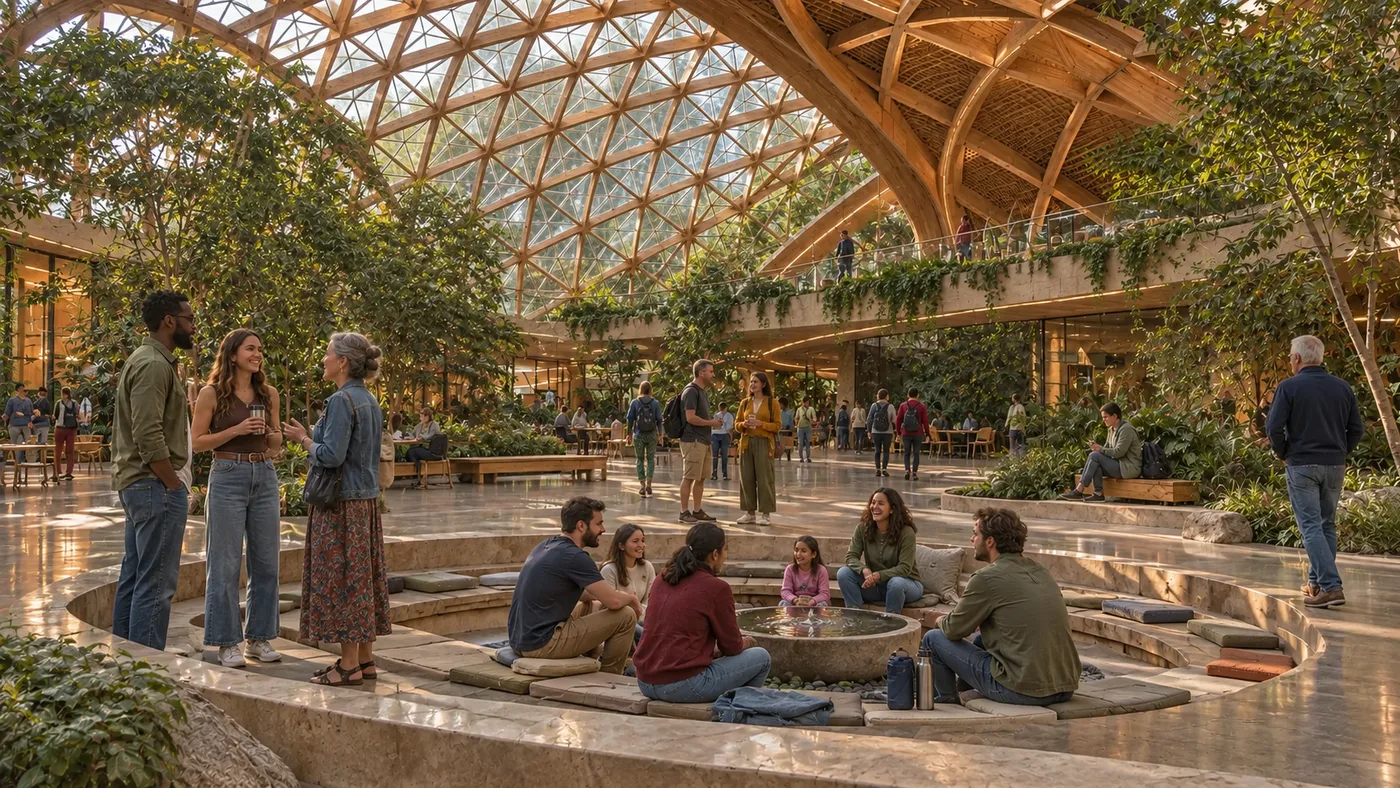
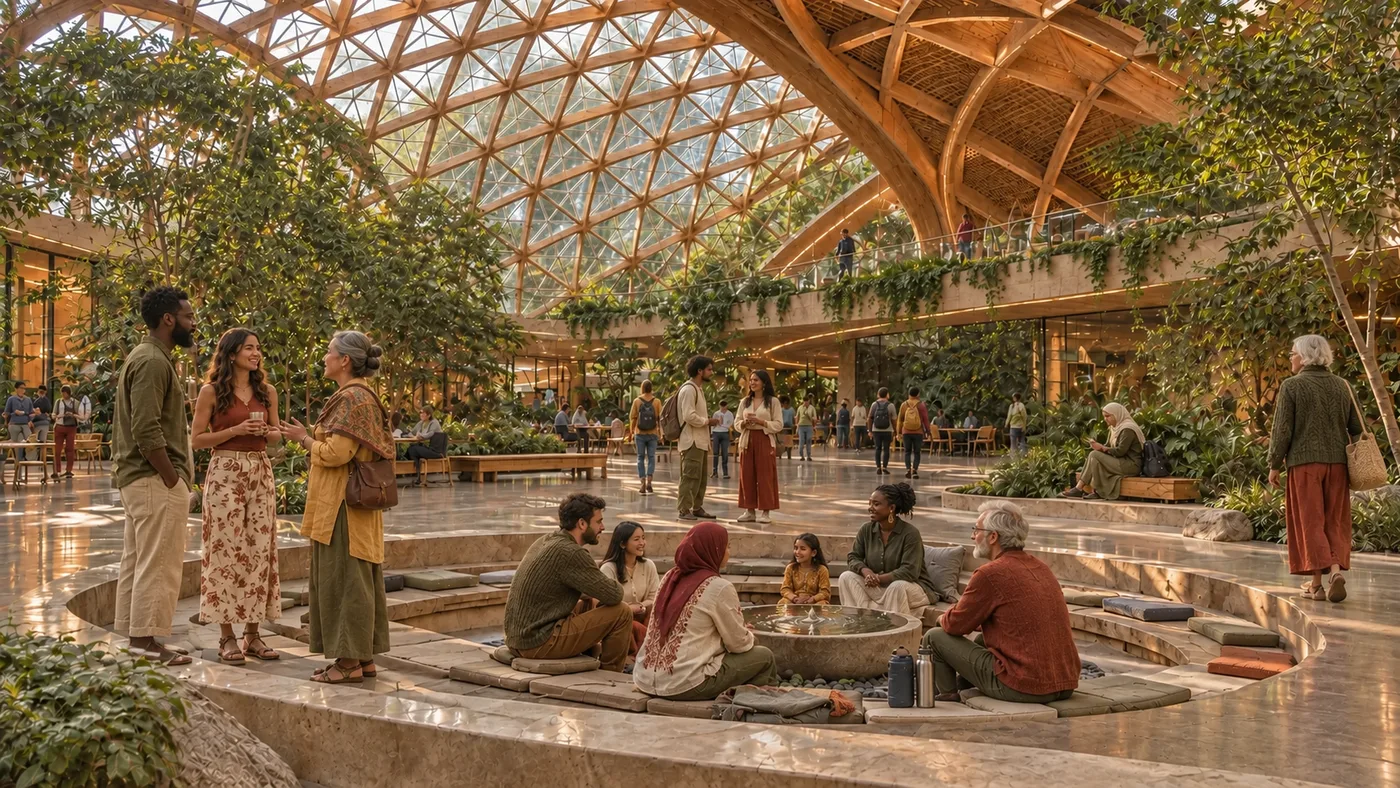
Show each image once, bring docs up to date, diverse natural clothing
- Docs: every photo and diagram now lives on one page; other pages link to it
  (visionary art in Architecture, diagrams on the pages that explain them)
- Layout & Diagrams becomes an index table of where each diagram lives
- At a Glance: new Nature section; Start Here, Index, Glossary (BNG, DarkSky,
  bird-safe glass, dry-stone, embodied carbon), Development Stages and
  Bibliography updated with Light on the Land, stone and materials
- Energy wording reconciled: no fossil fuel, renewable-fuel backup only in outages
- Spire: realistic daytime photo; no light shows or beacon, shielded night light
- Site pages: fewer repeated photos; new investors-site, about-land, journey-path
- 32 photos re-dressed: diverse people in varied natural clothing, little denim
- Visual Language: clothing and diversity rules

diff --git a/website/src/pages/investors.tsx b/website/src/pages/investors.tsx
@@ -9,7 +9,7 @@ export default function Investors(): JSX.Element {
       eyebrow="For investors"
       heading={<>Patient capital. <em>Measurable returns.</em></>}
       sub="Light City is structured for serious diligence: phased capital expenditure, documented assumptions, governance milestones and a clear line between proven infrastructure and exploratory research."
-      image="spire">
+      image="investors-site">
       <Section eyebrow="Phase 1 at a glance" title="The numbers behind the first 200 residents." lead="Mid-case figures from the financial model. Full assumptions and ranges are in the development stages documentation.">
         <div className="pg-facts">
           <div className="pg-fact"><b>$45M</b><span>Capital expenditure, Phase 1</span></div>
@@ -24,7 +24,7 @@ export default function Investors(): JSX.Element {
         <Cards items={[
           {title: 'Proven infrastructure', img: 'tech-bipv-solar-facade', text: 'Microgrid, mass timber and geodesic structures already stand elsewhere. 2–5 MWp of solar in Phase 1 is carried as engineering, not research.'},
           {title: 'Phased commitments', img: 'tech-clt-construction', text: 'Capital is staged with each development stage, so every tranche is tied to a documented milestone and decision point.'},
-          {title: 'Separated research track', img: 'research', text: 'Consciousness and experiential programs run on their own track with honest readiness levels, so they never carry the core business case.'},
+          {title: 'Separated research track', img: 'journey-awakening', text: 'Consciousness and experiential programs run on their own track with honest readiness levels, so they never carry the core business case.'},
         ]} />
       </Section>
 

diff --git a/website/src/pages/researchers.tsx b/website/src/pages/researchers.tsx
@@ -9,12 +9,12 @@ export default function Researchers(): JSX.Element {
       eyebrow="For researchers"
       heading={<>A living laboratory, <em>held to open-science standards.</em></>}
       sub="Engineering deliverables and consciousness hypotheses stay on separate tracks, each with an honest readiness level."
-      image="research">
+      image="tech-aquaponics-system">
       <Section eyebrow="Research programs" title="Four programs, one standard of evidence.">
         <Cards items={[
-          {kicker: 'TRL 1–3', title: 'Consciousness field studies', img: 'vision-2', text: 'HRV, EEG and heart-brain coherence across groups, with pre-registered protocols.'},
-          {kicker: 'TRL 2–4', title: 'Acoustic resonance', img: 'spire', text: 'RT60, SPL and listener studies inside the spire and domes.'},
-          {kicker: 'TRL 5–7', title: 'Biophilic health', img: 'dome-interior', text: 'Stress markers, sleep quality and cognitive performance in biophilic spaces.'},
+          {kicker: 'TRL 1–3', title: 'Consciousness field studies', img: 'research', text: 'HRV, EEG and heart-brain coherence across groups, with pre-registered protocols.'},
+          {kicker: 'TRL 2–4', title: 'Acoustic resonance', img: 'city-temple', text: 'RT60, SPL and listener studies inside the spire and domes.'},
+          {kicker: 'TRL 5–7', title: 'Biophilic health', img: 'home-studio', text: 'Stress markers, sleep quality and cognitive performance in biophilic spaces.'},
           {kicker: 'TRL 7–9', title: 'Regenerative agriculture', img: 'tech-agroforestry', text: 'Soil carbon, biomass and lifecycle analysis across food systems.'},
         ]} />
       </Section>

diff --git a/website/src/pages/about.tsx b/website/src/pages/about.tsx
@@ -14,9 +14,9 @@ export default function About(): JSX.Element {
       image="vision-1">
       <Section eyebrow="Core principles" title="Three ideas hold the whole project together." lead="Everything we design, finance and build is checked against these principles first.">
         <Cards items={[
-          {kicker: 'I', title: 'Spirit before structure', img: 'spire', text: 'Light City begins as an etheric template, a higher-dimensional pattern. Physical implementation follows spiritual alignment.'},
-          {kicker: 'II', title: "Gaia's memory", img: 'tech-agroforestry', text: 'Earth holds the memory of what Light City can be. We co-create with planetary consciousness rather than impose on it.'},
-          {kicker: 'III', title: 'Collective co-creation', img: 'dome-interior', text: "Light City is not a single person's vision but an emergent pattern drawing from many consciousness streams."},
+          {kicker: 'I', title: 'Spirit before structure', img: 'vision-1', text: 'Light City begins as an etheric template, a higher-dimensional pattern. Physical implementation follows spiritual alignment.'},
+          {kicker: 'II', title: "Gaia's memory", img: 'about-land', text: 'Earth holds the memory of what Light City can be. We co-create with planetary consciousness rather than impose on it.'},
+          {kicker: 'III', title: 'Collective co-creation', img: 'journey-founding', text: "Light City is not a single person's vision but an emergent pattern drawing from many consciousness streams."},
         ]} />
       </Section>
 

diff --git a/website/src/pages/city.tsx b/website/src/pages/city.tsx
@@ -45,7 +45,7 @@ export default function City(): JSX.Element {
           title="The spire"
           tag="TRL 4–5 at full scale"
           specs={[['Height', '60–120 m (Phase 1)'], ['Structure', 'Steel and CLT lattice'], ['Solar', '200–500 kWp integrated'], ['Role', 'Landmark, observation, energy']]}>
-          <p>The spire is the city's orientation point: visible from every path, lit at night, and carrying building-integrated solar. Its first purpose is practical: a landmark, an observation deck, a communications mast and a solar collector.</p>
+          <p>The spire is the city's orientation point: visible from every path by day, softly lit and shielded at night, and carrying building-integrated solar. Its first purpose is practical: a landmark, an observation deck, a communications mast and a solar collector.</p>
           <p>Tall timber-hybrid towers exist today, but a lattice spire of this height with integrated solar has not been built, so it will be engineered and reviewed in Stage 2. Phase 2 could extend it to 120–300 m.</p>
         </Feature>
         <Feature

diff --git a/website/src/pages/residents.tsx b/website/src/pages/residents.tsx
@@ -36,8 +36,8 @@ export default function Residents(): JSX.Element {
       <Section eyebrow="Contribution-based residency" title="Contribute your skills, offset your living costs." lead="Work-for-living tiers align resident time and talent with what the community needs. A pilot is planned for 2027–2028.">
         <Cards items={[
           {title: 'Grow', img: 'tech-vertical-farm', text: 'Food systems, agroforestry and aquaponics that feed the community.'},
-          {title: 'Build & maintain', img: 'tech-clt-construction', text: 'Construction, energy systems and day-to-day care of shared infrastructure.'},
-          {title: 'Hold space', img: 'vision-2', text: 'Education, wellness, hospitality and the ceremonies that bind a community.'},
+          {title: 'Build & maintain', img: 'form-superadobe', text: 'Construction, energy systems and day-to-day care of shared infrastructure.'},
+          {title: 'Hold space', img: 'dome-interior', text: 'Education, wellness, hospitality and the ceremonies that bind a community.'},
         ]} />
       </Section>
 

diff --git a/website/src/pages/journey.tsx b/website/src/pages/journey.tsx
@@ -9,7 +9,7 @@ export default function Journey(): JSX.Element {
       eyebrow="The transition"
       heading={<>From one person's attention <em>to a city of light.</em></>}
       sub="The transition happens in five movements. Each one is worthwhile on its own, each is voluntary, and each has a clear way to take part today."
-      image="journey-radiating">
+      image="journey-path">
       <Section>
         <Jump items={[
           {href: '#awakening', label: '1 · Awakening'},
@@ -38,7 +38,7 @@ export default function Journey(): JSX.Element {
           reverse
           id="gathering"
           img="journey-gathering"
-          alt="A circle of people in everyday clothes around an outdoor stone fire pit beside a modern retreat pavilion at dusk"
+          alt="A diverse circle of people in varied natural clothing around an outdoor stone fire pit beside a modern retreat pavilion at dusk"
           kicker="Movement 2 · 2027 – 2028 · Stage 4"
           title="Gathering"
           tag="From me to we"

diff --git a/website/src/pages/builders.tsx b/website/src/pages/builders.tsx
@@ -9,7 +9,7 @@ export default function Builders(): JSX.Element {
       eyebrow="For builders"
       heading={<>Built from <em>what already works.</em></>}
       sub="Phased construction, geodesic and mass-timber options, acoustic targets and a two-track energy story: a physical microgrid plus optional subtle-environment research."
-      image="dome-interior">
+      image="form-gridshell">
       <Section eyebrow="Systems" title="Every structure uses materials already standing elsewhere." lead="From Norway's 85.4 m Mjøstårnet timber tower to commercial geodesic domes, each system carries a technology readiness level (TRL).">
         <Cards items={[
           {kicker: 'Structure · TRL 7–9', title: 'Communosphere domes', img: 'tech-geodesic-dome', text: '30–90 m domes in cross-laminated timber and solar glass. Geometry that is both beautiful and proven.'},

diff --git a/website/src/pages/index.tsx b/website/src/pages/index.tsx
@@ -219,7 +219,7 @@ export default function Home(): JSX.Element {
       <section className="living" id="living">
         <div className="wrap living-grid">
           <figure className="living-art">
-            <img src={img('living')} alt="Residents in everyday clothes walk a garden path between curved timber homes with green roofs and a glass dome in morning light" width="1400" height="933" loading="lazy" />
+            <img src={img('living')} alt="Residents of many ages and backgrounds in varied natural clothing walk a garden path between curved timber homes with green roofs and a glass dome in morning light" width="1400" height="933" loading="lazy" />
           </figure>
           <div>
             <p className="eyebrow">05 — Living</p>

diff --git a/website/docs/design/visual-language.md b/website/docs/design/visual-language.md
@@ -2,9 +2,9 @@
 
 *How Light City looks in photos, diagrams, type and icons: Modern Organic, a blend of nature and technology*
 
-![Light City at dusk: curved timber domes, gardens, people in natural fabrics and a slender spire](/img/home/hero.webp)
+![Homes and gardens of Light City: curved timber homes with green roofs, paths and wild planting](/img/home/homes-overview.webp)
 
-*Modern Organic: curved timber, glass and earth, living plants, warm light and people in natural fabrics.*
+*Modern Organic: curved timber, glass and earth, green roofs and wild land, people of many backgrounds in varied, natural clothing.*
 
 ## Purpose
 
@@ -22,17 +22,16 @@ This guide keeps every Light City image, diagram and page consistent and readabl
 
 Use this style note at the end of every image prompt:
 
-> Curved glulam and CLT, timber gridshells, glass, living walls, rammed earth and clay plaster, warm shielded lighting, local stone, and only occasionally a single vertical quartz point on a pedestal. People in ordinary, varied everyday clothing of many colors. Mixed daylight and weather, not always sunset. Realistic documentary photo of a place that could be built today. No text or logos. Avoid medieval, rustic cabins and fantasy.
+> Curved glulam and CLT, timber gridshells, glass, living walls, rammed earth and clay plaster, warm shielded lighting, local stone, and only occasionally a single vertical quartz point on a pedestal. People of many ethnicities, ages and body types in varied, natural clothing: linen and cotton trousers, skirts and dresses, tunics, knitwear, shawls and work wear in earthy tones with warm accents, almost no denim. Mixed daylight and weather, not always sunset. Realistic documentary photo of a place that could be built today. No text or logos. Avoid medieval, rustic cabins and fantasy.
 
 - **Scale.** Domes 30–45 m across, 3–5 levels; the spire is slender, not a skyscraper.
-- **People.** Diverse ages and backgrounds, doing ordinary things: cooking, working, building, resting.
+- **People.** Diverse ages, ethnicities, body types and personal styles, doing ordinary things: cooking, working, building, resting.
+- **Clothing.** Varied and organic-looking, never a uniform look: natural fibres, many cuts (trousers, skirts, dresses, tunics, overalls, knitwear), earthy colors with some warmth. Avoid a crowd in jeans, and avoid costumes, robes or matching outfits.
 - **Technology.** Visible but calm: solar glazing, batteries in a timber room, sensors that look like furniture.
 - **Reality check.** Before an image goes in, ask: could this be photographed in a real eco-village next year? No open fire indoors, no glowing ground lights or rows of candles, no uplit domes, handrails at every drop, bird-safe patterned glass on large glazing, plants at a believable size, wild land around the buildings rather than lawns. Crystals are occasional, at most one point in a scene, and most images have none.
 - **Formats.** 16:9 for heroes, 4:3 for cards, 1:1 for tiles. Export as WebP or JPG at about 1,400–2,000 px wide.
 
-![Earth dome and printed-earth homes](/img/home/form-earth-dome.webp)
-
-*Earth domes and printed-earth homes: low-cost forms that belong in the image library alongside timber domes.*
+Earth domes and printed-earth homes belong in the image library alongside timber domes; examples are in [Beyond the Box](/docs/design/organic-forms-and-materials).
 
 ## Diagrams
 
@@ -46,9 +45,7 @@ All diagrams in the library follow these rules:
 - **One idea per diagram.** If a diagram needs a paragraph to explain, split it.
 - **Geometry diagrams** pair the figure with two panels: "Traditional meaning" and "How Light City uses it."
 
-![Light City plan: five rings around the spire and plaza](/img/diagrams/city-layout.svg)
-
-*Example: numbered rings, a short legend and plain-language labels.*
+A good example is the city plan in [Architecture → Circular form](/docs/design/architecture#circular-form): numbered rings, a short legend and plain-language labels.
 
 ## Typography
 
@@ -71,13 +68,7 @@ All diagrams in the library follow these rules:
 - Circle, vesica piscis, Flower of Life, golden ratio, Platonic solids, star tetrahedron (Merkaba), Metatron's Cube, Sri Yantra.
 - Geometry guides proportion, plans and ornament. We do not claim physical effects from shapes.
 
-![Golden ratio](/img/diagrams/golden-ratio-spiral.svg)
-
-*The golden ratio: a proportion guide for rooms, windows and ring spacing, used as one tool among many.*
-
-![Star tetrahedron (Merkaba)](/img/diagrams/merkaba.svg)
-
-*The star tetrahedron: a motif for the spire crown, pavilion screens and lattice nodes.*
+- The golden ratio is a proportion guide for rooms, windows and ring spacing; the star tetrahedron is a motif for the spire crown, screens and lattice nodes. The diagrams are in [Sacred Geometry](/docs/concepts/sacred-geometry).
 
 ## Accessibility
 

diff --git a/website/docs/START-HERE.md b/website/docs/START-HERE.md
@@ -22,7 +22,7 @@ Read it in order, or jump to the part you care about. Each part leads naturally 
 |---|---|---|
 | **1. Why** | Why build Light City, and what is it for? | [Core Concepts](/docs/concepts/core-concepts) → [Philosophy](/docs/concepts/philosophy) → [Purpose & Mission](/docs/concepts/purpose-and-mission) |
 | **2. The Transition** | How do we get from today's life to that future? | [The Transition](/docs/concepts/the-transition) |
-| **3. The City** | What will it look and feel like? | [Architecture](/docs/design/architecture) → [Communospheres](/docs/concepts/communospheres) → [Sacred Geometry](/docs/concepts/sacred-geometry) |
+| **3. The City** | What will it look and feel like? | [Architecture](/docs/design/architecture) → [Beyond the Box](/docs/design/organic-forms-and-materials) → [Light on the Land](/docs/design/light-on-the-land) → [Communospheres](/docs/concepts/communospheres) |
 | **4. Technology** | What makes it work, and what is real today? | [Technology Horizon](/docs/technical/technology-horizon) → [Energy Systems](/docs/concepts/energy-systems) → [Technology Catalog](/docs/technical/technology-catalog) |
 | **5. Living Together** | How will people live, decide and contribute? | [Governance](/docs/project/governance) → [Contribution-Based Residency](/docs/project/contribution-based-residency) |
 | **6. Roadmap** | When will it happen, and what will it cost? | [Development Stages](/docs/project/development-stages) |
@@ -38,7 +38,7 @@ The key facts — scale, costs, homes, timeline — are on one page: **[Light Ci
 
 **Investor or partner.** Read [At a Glance](/docs/at-a-glance), then [Development Stages](/docs/project/development-stages) (financial model) and [Technology Horizon](/docs/technical/technology-horizon), and finish on the [Investors page](/investors).
 
-**Architect, engineer or builder.** Start with [Architecture](/docs/design/architecture), then [Technology Catalog](/docs/technical/technology-catalog), [Energy Systems](/docs/concepts/energy-systems) and the [Urban Retrofit Guide](/docs/technical/urban-retrofit-guide).
+**Architect, engineer or builder.** Start with [Architecture](/docs/design/architecture), [Beyond the Box](/docs/design/organic-forms-and-materials) and [Light on the Land](/docs/design/light-on-the-land), then [Technology Catalog](/docs/technical/technology-catalog), [Energy Systems](/docs/concepts/energy-systems) and the [Urban Retrofit Guide](/docs/technical/urban-retrofit-guide).
 
 **Researcher.** Begin with [Open Questions](/docs/research/open-questions), then [Bibliography](/docs/research/bibliography), and finish with the frontier section of [Technology Horizon](/docs/technical/technology-horizon#frontier--study-openly-never-depend-on).
 
@@ -51,13 +51,14 @@ Light City began as a vision received through inspired and channeled sources. We
 1. **Archetype vs. Earth build.** Pages say whether they describe the visionary archetype or what we will actually construct.
 2. **Four horizons.** Every technology is tagged **Proven, Scaling, Emerging or Frontier** ([Technology Horizon](/docs/technical/technology-horizon)). We build with what is proven, design for what is scaling and study what is frontier.
 3. **One set of numbers.** Every figure matches [At a Glance](/docs/at-a-glance).
+4. **Show each image once.** Every photo and diagram lives on one page; other pages link to it.
 
 ## Where we are now
 
 | | |
 |---|---|
 | **Current stage** | S1 Foundation, finishing (Oct 2025 – Dec 2026) |
-| **Done** | Vision and philosophy, architecture concept, financial model, governance and residency frameworks, technology research, a new public website and this library |
+| **Done** | Vision and philosophy, architecture concept, financial model, governance and residency frameworks, technology research, five candidate site regions, location-specific materials, nature commitments, a new public website and this library |
 | **Finishing in Stage 1** | Research agenda, partner outreach, founding-circle interest list |
 | **Next** | S2 Design (Jan – Jun 2027): site selection, structural feasibility of the spire, design development |
 | **First residents** | Targeted for 2031, at the end of Stage 5 |

diff --git a/website/docs/concepts/energy-systems.md b/website/docs/concepts/energy-systems.md
@@ -62,13 +62,7 @@ Light City operates on multiple energy levels simultaneously, with clear separat
 
 ## Visual Reference
 
-Your visionary conception of Light City's crystalline energy architecture:
-
-![Light City Energy Vision](/img/inspiration/light-city-vision-2.jpg)
-
-Delphin's crystal spire and energy system in action (visible as the central glowing structure):
-
-![Delphin Energy System](/img/inspiration/delphin-aerial-view-2.png)
+The visionary images of the crystal spire and Delphin's energy system are in [Architecture → Vision references](/docs/design/architecture#vision-references).
 
 **Note**: Delphin represents an off-world reference model with advanced technology. Light City's Earth implementation uses the two-track system above.
 
@@ -98,7 +92,7 @@ Delphin's crystal spire and energy system in action (visible as the central glow
 
 ### Resilience without diesel
 
-Light City does not use diesel. Backup power comes in layers, from the cleanest and most proven to the most site-specific:
+Light City does not use diesel or any fossil fuel. Daily life is all-electric; fuel is burned only during long outages, and only renewable fuel. Backup power comes in layers, from the cleanest and most proven to the most site-specific:
 
 | Layer | What it is | Readiness | Notes |
 |---|---|---|---|
@@ -106,7 +100,7 @@ Light City does not use diesel. Backup power comes in layers, from the cleanest 
 | 2. Grid tie | Import/export with the regional utility | TRL 9 | Where a substation is within reach |
 | 3. Biogas gensets | Engines running on methane from on-site digesters (food waste, manure, garden waste) | TRL 9 | Closes the loop with the food system; digestate goes back to the soil |
 | 4. Bio-ethanol gensets | Engines or fuel cells running on plant-based ethanol | TRL 6-8 | Ethanol gensets already replace diesel in Brazil, e.g. the [Liconic Ecogerador](https://contest.techbriefs.com/2024/entries/sustainable-technology/13212); an EU bioethanol fuel-cell backup reached TRL 6 ([PEMBeyond, CORDIS](https://cordis.europa.eu/project/id/621218/reporting/it)). Ethanol holds about 40% less energy per litre than diesel, so tanks are larger. |
-| 5. Gas (transition only) | Renewable natural gas first; pipeline gas only as a temporary fallback | TRL 9 | Phased out as biogas output grows |
+| 5. Renewable natural gas (optional) | Upgraded biomethane bought from regional digesters, never fossil pipeline gas | TRL 9 | Only if the site cannot make enough biogas itself |
 | 6. Micro-hydro | Run-of-river turbines, no dams | TRL 9 | Only where the site has a year-round stream with head |
 | 7. Geothermal heat | Ground-source heat pumps everywhere; direct-use hot water where the rock allows | TRL 9 (heat pumps, direct use) | Deep geothermal power is site-dependent and stays a Phase 2 option; confirmed only after test wells |
 
@@ -150,7 +144,7 @@ Hydro and geothermal are treated as bonuses, not promises: they depend on the la
 **Primary Functions** (Terrestrial Model):
 - **Ceremonial signaling**: Programmable LED lighting visible for miles
 - **Acoustic resonance**: Generates harmonic tones (Schumann, Solfeggio frequencies)
-- **Wayfinding beacon**: Visual and energetic landmark
+- **Wayfinding landmark**: Visible by day; at night only shielded, downward lighting (see [Light on the Land](/docs/design/light-on-the-land))
 - **Research platform**: Consciousness field studies, instrumentation
 
 **NOT Primary Function**: Baseload power generation (that's the microgrid's job)

diff --git a/website/docs/design/light-on-the-land.md b/website/docs/design/light-on-the-land.md
@@ -38,7 +38,7 @@ These are not concepts. Each one has been built, measured and independently repo
 |---|---|---|---|
 | **Land taken** | Every building and road replaces habitat | Compact core of 20–30 acres for Phase 1 on a 100–500 acre site; build on already farmed or degraded ground, never old forest or wetland; keep at least half the site as permanent habitat | **Proven** (planning choice) |
 | **Biodiversity** | Fragmented, sprayed land loses species | Baseline ecological survey before design; wildlife corridors kept open between habitat patches; native planting; no pesticides; aim for at least 20% biodiversity net gain using a recognised metric | **Proven** method, needs ecologists |
-| **Energy** | Fossil fuel is the largest climate impact | All-electric, no combustion fuels; rooftop solar plus agrivoltaic fields with grazing and pollinator meadows; batteries; aim for 105% or more of annual use, the Living Building threshold | **Proven** |
+| **Energy** | Fossil fuel is the largest climate impact | All-electric daily life with no fossil fuels; renewable-fuel backup only during long outages; rooftop solar plus agrivoltaic fields with grazing and pollinator meadows; batteries; aim for 105% or more of annual use, the Living Building threshold | **Proven** |
 | **Water** | Arid sites can drain aquifers | Rainwater harvesting, low-flow fixtures, greywater reuse through constructed wetlands, composting or vacuum toilets; no net drawdown of groundwater | **Proven**, but permits for drinking rainwater vary by country |
 | **Materials and carbon** | Concrete, steel and glass carry heavy embodied carbon | Local stone, earth, timber and bamboo; minimal concrete; measure embodied carbon for every building and publish it (see [Beyond the Box](/docs/design/organic-forms-and-materials)) | **Proven** to Emerging |
 | **Night light** | Artificial light at night disrupts birds, bats, insects and sleep | Outdoor lights shielded and pointed down, warm color (3000 K or warmer), dimmed or off when not needed, no uplighting of the spire or domes; work toward International Dark Sky Community status | **Proven** ([DarkSky](https://darksky.org/what-we-do/international-dark-sky-places/apply/)) |
@@ -64,7 +64,7 @@ Some of our earlier imagery showed things that would *increase* impact, and we a
 
 1. **Build small.** Developed area stays at or under 15% of the site; at least 50% is placed under a permanent conservation agreement.
 2. **More life after than before.** At least 20% biodiversity net gain against a pre-construction baseline, monitored for 30 years.
-3. **Net-positive energy.** 105% or more of annual energy from on-site renewables, with no fossil combustion.
+3. **Net-positive energy.** 105% or more of annual energy from on-site renewables, with no fossil fuel; renewable-fuel backup runs only during long outages.
 4. **Live within the rain.** No net groundwater drawdown; water reused at least once before it returns to the land.
 5. **Count the carbon in buildings.** Embodied carbon measured and published for every building, with a falling target each phase.
 6. **Protect the night.** DarkSky-compliant outdoor lighting from day one.
